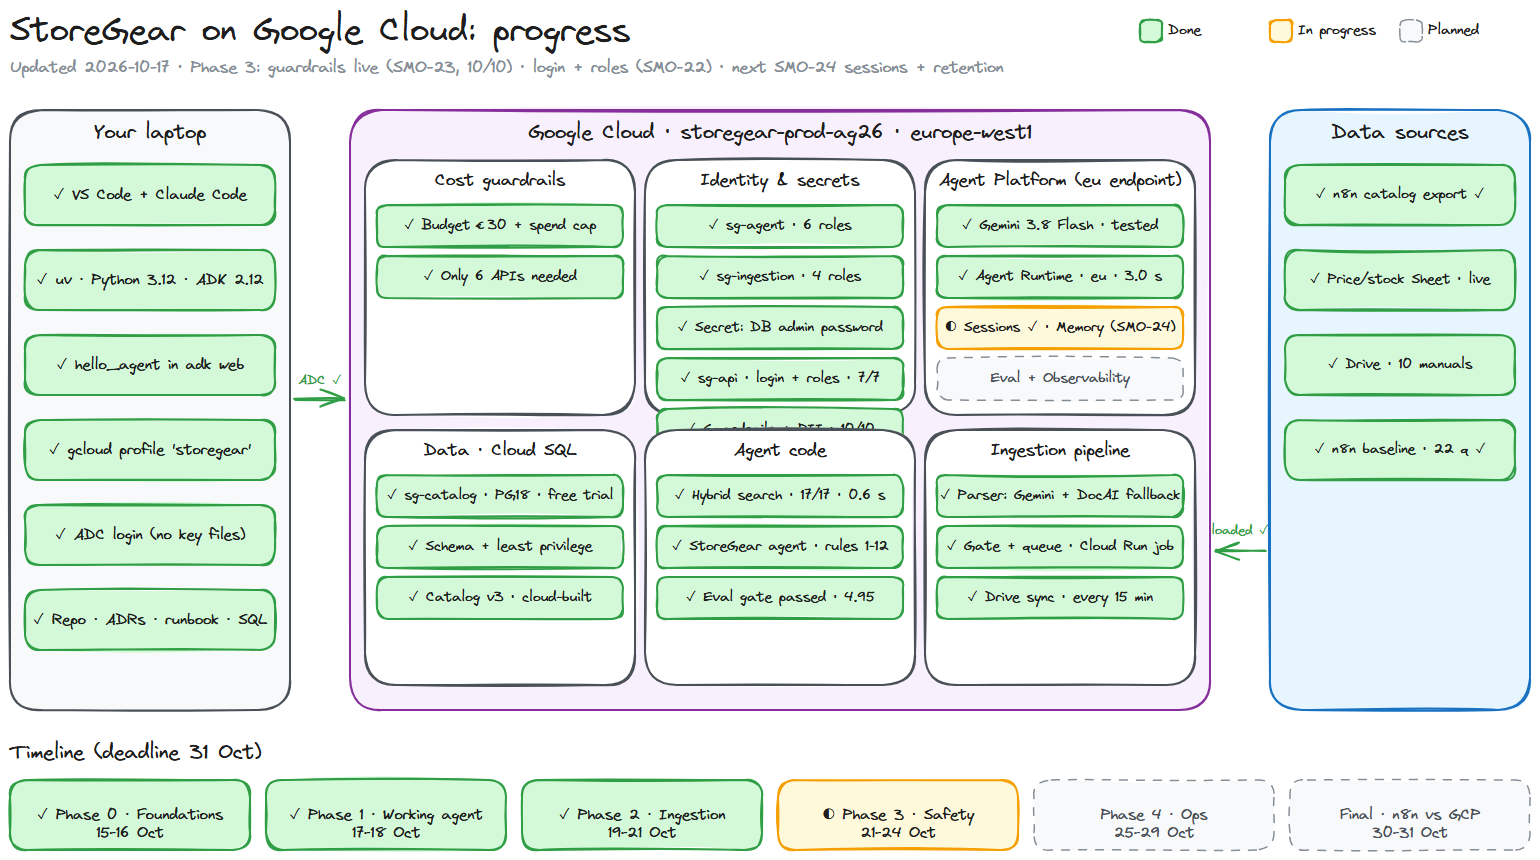
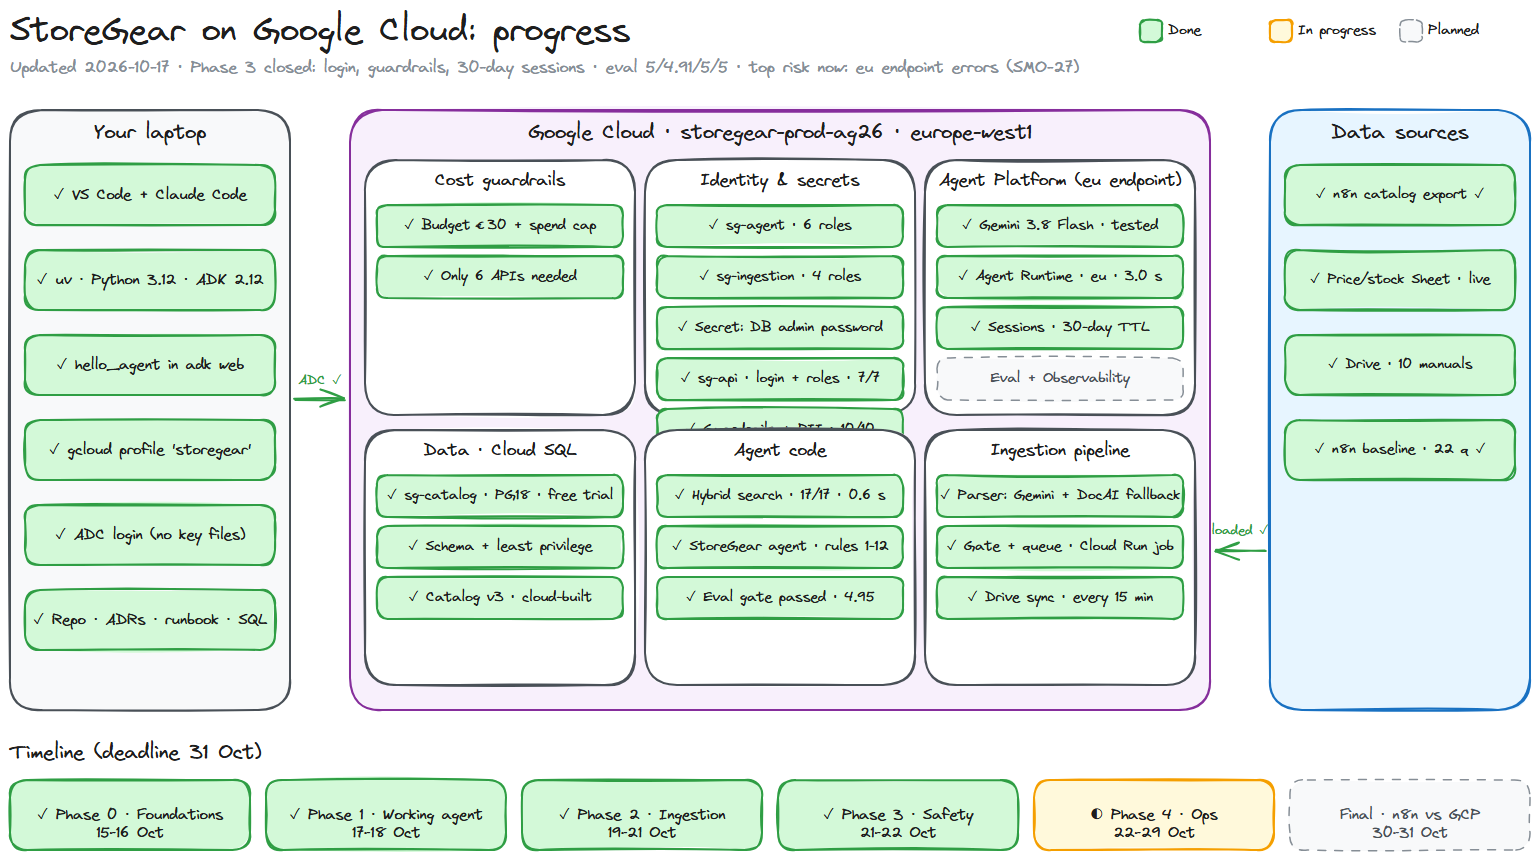
SMO-24 done, Phase 3 closed: 30-day sessions, history without LLM, eval 5/4.91/5/5; availability noted as top risk; build log #19

Changed region(s): [[0.4987, 0.907, 0.8416, 0.9977], [0.5922, 0.3326, 0.7792, 0.4233], [0.1558, 0.0605, 0.7169, 0.0907]]

diff --git a/docs/diagram/build_progress_diagram.js b/docs/diagram/build_progress_diagram.js
@@ -6,7 +6,7 @@ const fs = require('fs');
 const path = require('path');
 
 const UPDATED = '2026-10-17';
-const HEADLINE = 'Phase 3: guardrails live (SMO-23, 10/10) · login + roles (SMO-22) · next SMO-24 sessions + retention';
+const HEADLINE = 'Phase 3 closed: login, guardrails, 30-day sessions · eval 5/4.91/5/5 · top risk now: eu endpoint errors (SMO-27)';
 
 // ---------------------------------------------------------------- content (edit statuses here)
 const LAPTOP = [
@@ -32,7 +32,7 @@ const GCP = [ // [title, items]
   ['Agent Platform (eu endpoint)', [
     ['done', 'Gemini 3.8 Flash · tested'],
     ['done', 'Agent Runtime · eu · 3.0 s'],
-    ['wip', 'Sessions ✓ · Memory (SMO-24)'],
+    ['done', 'Sessions · 30-day TTL'],
     ['todo', 'Eval + Observability'],
   ]],
   ['Data · Cloud SQL', [
@@ -61,8 +61,8 @@ const PHASES = [
   ['done', 'Phase 0 · Foundations', '15-16 Oct'],
   ['done', 'Phase 1 · Working agent', '17-18 Oct'],
   ['done', 'Phase 2 · Ingestion', '19-21 Oct'],
-  ['wip', 'Phase 3 · Safety', '21-24 Oct'],
-  ['todo', 'Phase 4 · Ops', '25-29 Oct'],
+  ['done', 'Phase 3 · Safety', '21-22 Oct'],
+  ['wip', 'Phase 4 · Ops', '22-29 Oct'],
   ['todo', 'Final · n8n vs GCP', '30-31 Oct'],
 ];
 

diff --git a/docs/build-log.md b/docs/build-log.md
@@ -22,6 +22,7 @@ Bilingual diary (EN + ES), one entry per Linear issue. It feeds the thesis annex
 | 16 | 2026-10-21 | SMO-21 | Threat model: OWASP LLM + Agentic, trifecta kept broken |
 | 17 | 2026-10-21 | SMO-22 | Login and roles: Identity Platform + sg-api, 7/7 |
 | 18 | 2026-10-21 | SMO-23 | Guardrails + PII at the door, safety settings on, 10/10 |
+| 19 | 2026-10-22 | SMO-24 | Sessions with a 30-day TTL, history without the model; Phase 3 gate |
 
 ---
 
@@ -312,5 +313,21 @@ Bilingual diary (EN + ES), one entry per Linear issue. It feeds the thesis annex
 - **Por qué:** los puntos de entrada y salida del modelo de amenazas (LLM01, LLM02, LLM05, LLM07, ASI02).
 - **Aprendido:** (1) **Los filtros de daño de Gemini vienen APAGADOS por defecto** desde la 2.5; nadie lo nota hasta que lo comprueba. (2) **Primero lo determinista:** la letra de un DNI es exacta y gratis; el LLM, para lo que una regla no puede decidir (el tema). (3) **Convertir los falsos positivos pasados en tests:** los dos de n8n (política de encargado como fuera de tema, "documento interno" como filtración) son ahora casos permanentes. (4) **Una sola ejecución del eval no es una barrera:** el mismo agente sacó 4,64 y 5,00 con una hora de diferencia.
 - **Siguiente:** SMO-24, sesiones y retención.
+
+---
+
+## 19 · Sessions with a 30-day TTL, history without the model; Phase 3 gate (SMO-24) — 2026-10-22
+
+### EN
+- **What:** ADR-016 accepted: Agent Platform Sessions with a 30-day TTL set by `sg-api` (1 day for tests), history endpoints with no model call, a retention audit (144 sessions moved from the 365-day default), no Memory Bank. `session_tests` 6/6 (follow-up, history 0.39 s, cross-user 404 ×3, 30.00-day expiry, delete). Phase 3 gate: remote eval 5.00 / 4.91 / 5.00 / 5.00 after raising the sections given to the agent from 5 to 7.
+- **Why:** per-employee conversations with privacy by design (GDPR storage limitation, right to erasure).
+- **Learned:** (1) **Check the platform default:** sessions lived a year unless told otherwise. (2) **The gate found a real retrieval weakness:** the rebuilt catalog pushed one answer from 5th to 7th; the duplicate question doubled the hit. (3) **The eval itself had a bug:** in remote mode it rebuilt the judge's context with 5 sections while the agent used 7, so correct answers were scored as unfaithful. The harness now mirrors the deployed settings. (4) **Availability is the new top risk:** one run lost 9 of 22 questions to Google 500/504 errors.
+- **Next:** SMO-27 (moved up), then SMO-25/26.
+
+### ES
+- **Qué:** ADR-016 aceptado: Agent Platform Sessions con un TTL de 30 días que fija `sg-api` (1 día para tests), historial sin llamar al modelo, una auditoría de retención (144 sesiones pasaron del valor por defecto de 365 días) y sin Memory Bank. `session_tests` 6/6 (seguimiento, historial en 0,39 s, 404 entre usuarios ×3, caducidad a 30,00 días, borrado). Barrera de la fase 3: eval remoto 5,00 / 4,91 / 5,00 / 5,00 tras subir de 5 a 7 las secciones que recibe el agente.
+- **Por qué:** conversaciones por empleado con privacidad desde el diseño (limitación del plazo de conservación, derecho de supresión).
+- **Aprendido:** (1) **Revisar el valor por defecto de la plataforma:** las sesiones vivían un año si nadie decía lo contrario. (2) **La barrera encontró una debilidad real de búsqueda:** el catálogo reconstruido empujó una respuesta del 5.º al 7.º puesto, y la pregunta duplicada dobló el golpe. (3) **El propio eval tenía un fallo:** en modo remoto reconstruía el contexto del juez con 5 secciones mientras el agente usaba 7, y puntuaba respuestas correctas como infieles. Ahora replica la configuración desplegada. (4) **La disponibilidad es el nuevo riesgo principal:** una ejecución perdió 9 de 22 preguntas por errores 500/504 de Google.
+- **Siguiente:** SMO-27 (adelantado), luego SMO-25/26.
 
 ---

diff --git a/docs/adr/016-sessions-and-retention.md b/docs/adr/016-sessions-and-retention.md
@@ -1,6 +1,6 @@
 # ADR-016 — Sessions and retention: Agent Platform Sessions with a 30-day TTL, no long-term memory, history without the model
 
-- **Status:** Proposed (2026-10-21)
+- **Status:** Accepted (2026-10-21)
 - **Date:** 2026-10-21
 - **Linear:** SMO-24 (planned as "ADR-014"; renumbered)
 - **Deciders:** Alexander (decides) · Claude (drafts)
@@ -22,7 +22,7 @@ Each employee needs their own conversations, so follow-up questions work ("¿y t
 **Long-term memory (Memory Bank)**
 Memory Bank would extract "facts" from conversations and recall them across sessions. **Not enabled:** staff ask about the catalog, not about themselves, so it adds little; it would turn conversations into longer-lived personal profiles; and ADR-013 requires per-user scoping and a review before enabling it.
 
-## Decision (proposed)
+## Decision
 1. **Sessions stay in Agent Platform Sessions**; `sg-api` creates every session with **`ttl = 30 days`**; eval and test scripts with **1 day**.
 2. **Retention audit** (`infra/sessions_retention.py`): lists every session, deletes those older than 30 days and shortens any longer expiry to 30 days from creation. Run once now (fixes the 365-day sessions) and on a schedule from SMO-28. The TTL is the mechanism; the audit is the proof.
 3. **History without the model**, in `sg-api` (role and identity from the token, as always):
@@ -34,6 +34,13 @@ Memory Bank would extract "facts" from conversations and recall them across sess
 ## Consequences
 - **Good:** retention enforced by the platform; nothing new to run; the right to see and erase is built in; no long-lived profiles.
 - **Bad / accepted:** a conversation older than 30 days is gone, even if an employee wanted it; no cross-session personalisation.
+
+## Addendum (2026-10-22): results and the Phase 3 gate
+- `sg-api:v4`: sessions created with a 30-day TTL; `GET /sessions`, `GET /sessions/{id}`, `DELETE /sessions/{id}`. Retention audit: **144 sessions** found with the 365-day default, all now within 30 days (the Sessions API rate-limits bursts with 429: writes are paced and retried).
+- **`eval/session_tests.py` 6/6:** a follow-up ("¿Y hay stock?") keeps the product; history in 0.39 s with no model call; another user gets 404 on read, delete and chat; expiry 30.00 days after creation; the owner can delete.
+- **Regression:** auth 7/7; guardrails 9/10 (2 of the 22 questions came back as agent 502s, not blocks → SMO-27).
+- **Retrieval fix found by the gate:** Q10 and its duplicate Q21 failed because in the cloud-built catalog the answer's section ranks 7th and the agent got 5. `STOREGEAR_RETURN_N=7` in the deployed agent: local eval 5.00 / 4.95 / 5.00 / 5.00, almost no second searches, +11 % input tokens. The better fix (a reranker) is SMO-33. The remote eval now mirrors the deployed search settings (it had judged 7-section answers against a 5-section context).
+- **Phase 3 gate (remote, 2 runs):** run 2 **5.00 / 4.91 / 5.00 / 5.00**, median 4.5 s. Run 1 had **9 of 22 questions fail with Google 500/504 errors** on the `eu` endpoint (no Google incident posted): availability, not quality, and now the top risk → SMO-27.
 
 ## Revisit when
 Staff need personal preferences remembered across sessions (→ Memory Bank, scoped per user, with its own retention and a threat-model review), or the legal retention period changes.

diff --git a/docs/progress.md b/docs/progress.md
@@ -1,6 +1,6 @@
 # Progress summary
 
-*Updated 2026-10-21 (after SMO-23). Diagram: [`docs/diagram/progress.excalidraw`](diagram/progress.excalidraw), regenerated with `node docs/diagram/build_progress_diagram.js` after each Linear issue.*
+*Updated 2026-10-22 (after SMO-24, Phase 3 closed). Diagram: [`docs/diagram/progress.excalidraw`](diagram/progress.excalidraw), regenerated with `node docs/diagram/build_progress_diagram.js` after each Linear issue.*
 
 ## In one paragraph
 We are rebuilding the StoreGear shop assistant, today a working n8n agent, entirely on Google Cloud, to learn how a real AI product is built and run. **Phase 0 (foundations) is done.** There's a Google Cloud project with an EU region and a hard spending cap. The code runs under robot identities with minimal permissions and no keys. A first ADK agent already talks to Gemini 3.8 Flash on Agent Platform. **Phase 1 has started:** the database that will hold the manuals is running (on a free 30-day trial), and its tables, Spanish search and permissions are live. The catalog is loaded: 9,054 passages from 10 manuals, each with a Google embedding.
@@ -118,10 +118,17 @@ We are rebuilding the StoreGear shop assistant, today a working n8n agent, entir
 - **Proof, 10/10 on the live service:** the n8n test cases (jailbreak, paella, internal tools, explicit request, personal data) plus the two n8n false positives that must not return (a manager's policy question; an answer citing the internal document). The 22 eval questions pass through without a single false block.
 - **A caveat worth knowing:** one eval run scored 4.64 (a Google timeout plus a search that ranked the right section 7th of 5 shown), the next 5.00. Quality holds, but a single run is a noisy gate: SMO-28 will take that into account.
 
+### 19. Conversations and the 30-day rule (SMO-24) — Phase 3 closed
+- **What:** each employee has their own conversations; follow-ups work ("¿Y hay stock?" after asking about the Ignite 2). They can list, read and delete their own history without the model being called, and nobody else can see it (another user gets "not found").
+- **Retention:** Google kept conversations **for a year by default**. Now each one is deleted after 30 days, and a small audit script checks it (it fixed 144 old test conversations).
+- **What the final check found:** one question (and its duplicate) failed because the right manual section came 7th and the agent only read 5. The agent now reads 7: quality back to 5/5/5/5, about 11 % more text per answer. A smarter fix (a "reranker" that reorders results) is planned as SMO-33.
+- **The real risk now:** in one run, Google's European endpoint failed 9 of 22 questions with server errors. Quality is fine; availability isn't yet. That's next (SMO-27).
+
 ## What's next
 | Next | Issue | What happens |
 |---|---|---|
-| 1 | SMO-24 | Conversations: 30-day retention + the Phase 3 eval gate |
+| 1 | SMO-27 (moved up) | When Google's endpoint fails: retries, a friendly reply instead of an error, an alert, and a decision on a fallback |
+| 2 | SMO-25 / 26 | Tracing and real cost per answer |
 
 ## Numbers to beat (n8n, 2026-10-11)
 Correctness 5.00 · Faithfulness 4.95 · Context 5.00 · Answer 5.00 · median 9.0 s · ~$0.008 per answer.

diff --git a/infra/runbook.md b/infra/runbook.md
@@ -260,3 +260,13 @@ uv run python infra/deploy_agent_runtime.py --update          # explicit safety 
 uv run --env-file agent/storegear/.env python eval/guardrail_tests.py --eval   # 10/10
 uv run python eval/run_eval.py --remote
 ```
+
+## SMO-24 · Sessions + retention (2026-10-22; ADR-016)
+```bash
+gcloud builds submit --config api/cloudbuild.yaml --substitutions=_TAG=v4
+gcloud run deploy sg-api --image europe-docker.pkg.dev/storegear-prod-ag26/storegear/sg-api:v4 --region europe-west1
+uv run python infra/sessions_retention.py --dry-run && uv run python infra/sessions_retention.py   # audit, then enforce 30 d
+uv run --env-file agent/storegear/.env python eval/session_tests.py      # 6/6
+uv run python infra/deploy_agent_runtime.py --update                    # STOREGEAR_RETURN_N=7
+uv run python eval/run_eval.py --remote                                 # mirrors the deployed RETURN_N; run twice
+```
